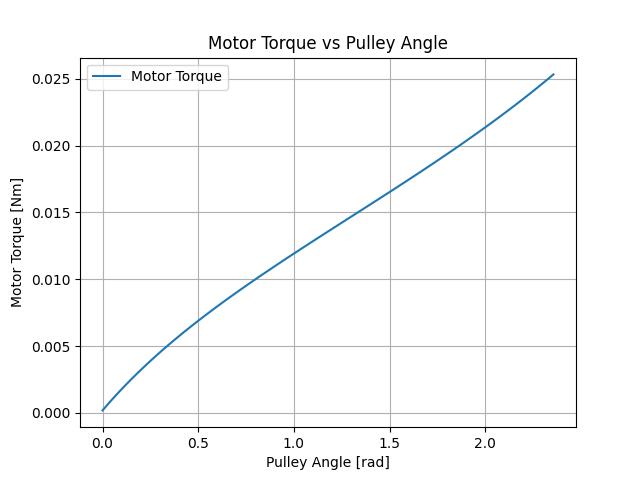
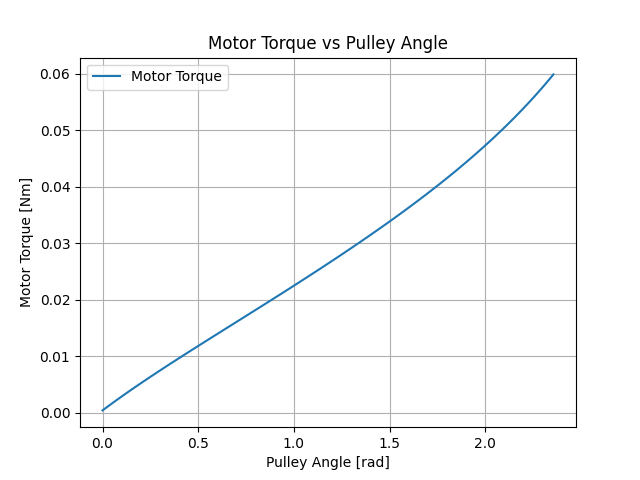
Added the name to files saved, changed the main so to have multiple fingers

diff --git a/main.py b/main.py
@@ -35,14 +35,86 @@ def run_simulation(finger, pulley_angles):
 
 
 def main():
-    
-    
-    
+
+    # FINGER WITH 3 PHALANGES TEST
     # we initialize the finger parameters
-    name = "TestFinger"
+    name = "Finger_3_phalanges"
     f_1 = 0.5
     f_2 = 0.5*0.5
-    p_r = 0.001
+    p_r = 0.0015*1.5
+
+    r_joints = [0.006, 0.005, 0.004]  # Three joints
+    r_tip = 0.003
+    L_phalanxes = [0.04, 0.03, 0.02]
+    b_a_metacarpal = 0.006
+    l_a = [1, 0, 0]
+    l_b = [0, 0, 0]
+    l_c = [0, 0, 0]
+    l_d = [0, 0, 0]
+
+    for i_iter in range(len(r_joints)):
+
+        if (i_iter == len(r_joints) - 1):
+
+            r_1 = r_joints[i_iter]
+            r_2 = r_tip
+
+        else:
+            r_1 = r_joints[i_iter]
+            r_2 = r_joints[i_iter + 1]
+
+        beta = atan2(2*(r_1-r_2),(L_phalanxes[i_iter]-r_1-r_2))
+
+        if (i_iter == 0):
+            l_a[i_iter] = 2*f_1*r_1
+        elif(i_iter==2):
+            l_a[i_iter] = (0.004 + 2*f_2*r_1)*cos(beta)
+        else:
+            l_a[i_iter] = (2*f_2*r_1)*cos(beta)
+
+        l_b[i_iter] = f_1*r_1*cos(beta)
+
+        if (i_iter == 0):
+            l_c[i_iter] = p_r
+        else:
+            l_c[i_iter] = -p_r
+
+        l_d[i_iter] = -p_r
+
+
+
+
+    inf_stiff_tendons = [1, 1, 1, 1]
+    k_tendons = [0, 0, 0, 0]
+    l_springs = [1e-4, 1e-4]
+    l_0_springs = [0, 0]
+    k_springs = [320, 320]
+    pulley_radius_functions = [lambda x: 0.01, lambda x: 0.0125]
+    tendon_joint_interface = [["e", "t", "e"], ["t", "e", "n"], ["f", "f", "n"], ["f", "f", "f"]]
+    tendon_spring_interface = [[1, 0], [0, 1], [0, 0], [0, 0]]
+    tendon_pulley_interface = [[0, 0], [0, 0], [1, 0], [0, 1]]
+
+    finger_3 = Finger(name, r_joints, r_tip, L_phalanxes, l_a, l_b, b_a_metacarpal, l_c, l_d, inf_stiff_tendons, k_tendons, l_springs, l_0_springs, k_springs, pulley_radius_functions, tendon_joint_interface, tendon_spring_interface, tendon_pulley_interface)
+
+    # Simulation parameters
+    num_simulations = 100
+    pulley_angles = np.linspace(0, 3 * np.pi / 4, num_simulations)
+
+    # Run the simulation
+    joint_angles, tendon_tensions, motor_torque, errors = run_simulation(finger_3, pulley_angles)
+
+    # Plot the results
+    plot_results(finger_3, pulley_angles, joint_angles, tendon_tensions, motor_torque, errors,"saved_media")
+
+    # Plot the finger video
+    make_animation(joint_angles, r_joints, r_tip, L_phalanxes)
+    
+    # FINGER WITH 2 PHALANGES TEST
+    # we initialize the finger parameters
+    name = "Finger_2_phalanxes"
+    f_1 = 0.5
+    f_2 = 0.5*0.5
+    p_r = 0.0015*1.5
 
 
     r_joints = [0.006, 0.005]  # Three joints
@@ -82,11 +154,9 @@ def main():
         l_d[i_iter] = -p_r
 
 
-
-
     inf_stiff_tendons = [1, 1, 1]
     k_tendons = [0, 0, 0]
-    l_springs = [0.0001, 0.00001]
+    l_springs = [1e-4, 1e-4]
     l_0_springs = [0, 0]
     k_springs = [320, 320]
     pulley_radius_functions = [lambda x: 0.01]
@@ -94,20 +164,21 @@ def main():
     tendon_spring_interface = [[1, 0], [0, 1],[0, 0]]
     tendon_pulley_interface = [[0], [0], [1]]
 
-    finger = Finger(name, r_joints, r_tip, L_phalanxes, l_a, l_b, b_a_metacarpal, l_c, l_d, inf_stiff_tendons, k_tendons, l_springs, l_0_springs, k_springs, pulley_radius_functions, tendon_joint_interface, tendon_spring_interface, tendon_pulley_interface)
+    finger_2 = Finger(name, r_joints, r_tip, L_phalanxes, l_a, l_b, b_a_metacarpal, l_c, l_d, inf_stiff_tendons, k_tendons, l_springs, l_0_springs, k_springs, pulley_radius_functions, tendon_joint_interface, tendon_spring_interface, tendon_pulley_interface)
 
     # Simulation parameters
     num_simulations = 100
     pulley_angles = np.linspace(0, 3 * np.pi / 4, num_simulations)
 
     # Run the simulation
-    joint_angles, tendon_tensions, motor_torque, errors = run_simulation(finger, pulley_angles)
+    joint_angles, tendon_tensions, motor_torque, errors = run_simulation(finger_3, pulley_angles)
 
     # Plot the results
-    plot_results(pulley_angles, joint_angles, tendon_tensions, motor_torque, errors,"saved_media")
+    plot_results(finger_2, pulley_angles, joint_angles, tendon_tensions, motor_torque, errors,"saved_media")
 
     # Plot the finger video
     make_animation(joint_angles, r_joints, r_tip, L_phalanxes)
+
 
 if __name__ == "__main__":
     main()

diff --git a/plot_functions/plot_results.py b/plot_functions/plot_results.py
@@ -1,6 +1,6 @@
 import matplotlib.pyplot as plt
 
-def plot_results(pulley_angles, joint_angles, tendon_tensions, motor_torque, errors,save_path=None):
+def plot_results(finger, pulley_angles, joint_angles, tendon_tensions, motor_torque, errors,save_path=None):
     # Plot joint angles
     fig, ax = plt.subplots()
     for j in range(joint_angles.shape[1]):
@@ -11,7 +11,7 @@ def plot_results(pulley_angles, joint_angles, tendon_tensions, motor_torque, err
     ax.set_title('Joint Angles vs Pulley Angle')
     ax.grid(True)
     if save_path:
-        fig.savefig(f"{save_path}/joint_angles.png")
+        fig.savefig(f"{save_path}/joint_angles_{finger.name}.png")
     plt.show()
     plt.close(fig)
 
@@ -25,7 +25,7 @@ def plot_results(pulley_angles, joint_angles, tendon_tensions, motor_torque, err
     ax.set_title('Tendon Tensions vs Pulley Angle')
     ax.grid(True)
     if save_path:
-        fig.savefig(f"{save_path}/tendon_tensions.png")
+        fig.savefig(f"{save_path}/tendon_tensions_{finger.name}.png")
     plt.show()
     plt.close(fig)
 
@@ -38,7 +38,7 @@ def plot_results(pulley_angles, joint_angles, tendon_tensions, motor_torque, err
     ax.set_title('Motor Torque vs Pulley Angle')
     ax.grid(True)
     if save_path:
-        fig.savefig(f"{save_path}/motor_torque.png")
+        fig.savefig(f"{save_path}/motor_torque_{finger.name}.png")
     plt.show()
     plt.close(fig)
 
@@ -51,6 +51,6 @@ def plot_results(pulley_angles, joint_angles, tendon_tensions, motor_torque, err
     ax.set_title('Error vs Pulley Angle')
     ax.grid(True)
     if save_path:
-        fig.savefig(f"{save_path}/error.png")
+        fig.savefig(f"{save_path}/error_{finger.name}.png")
     plt.show()
     plt.close(fig)
